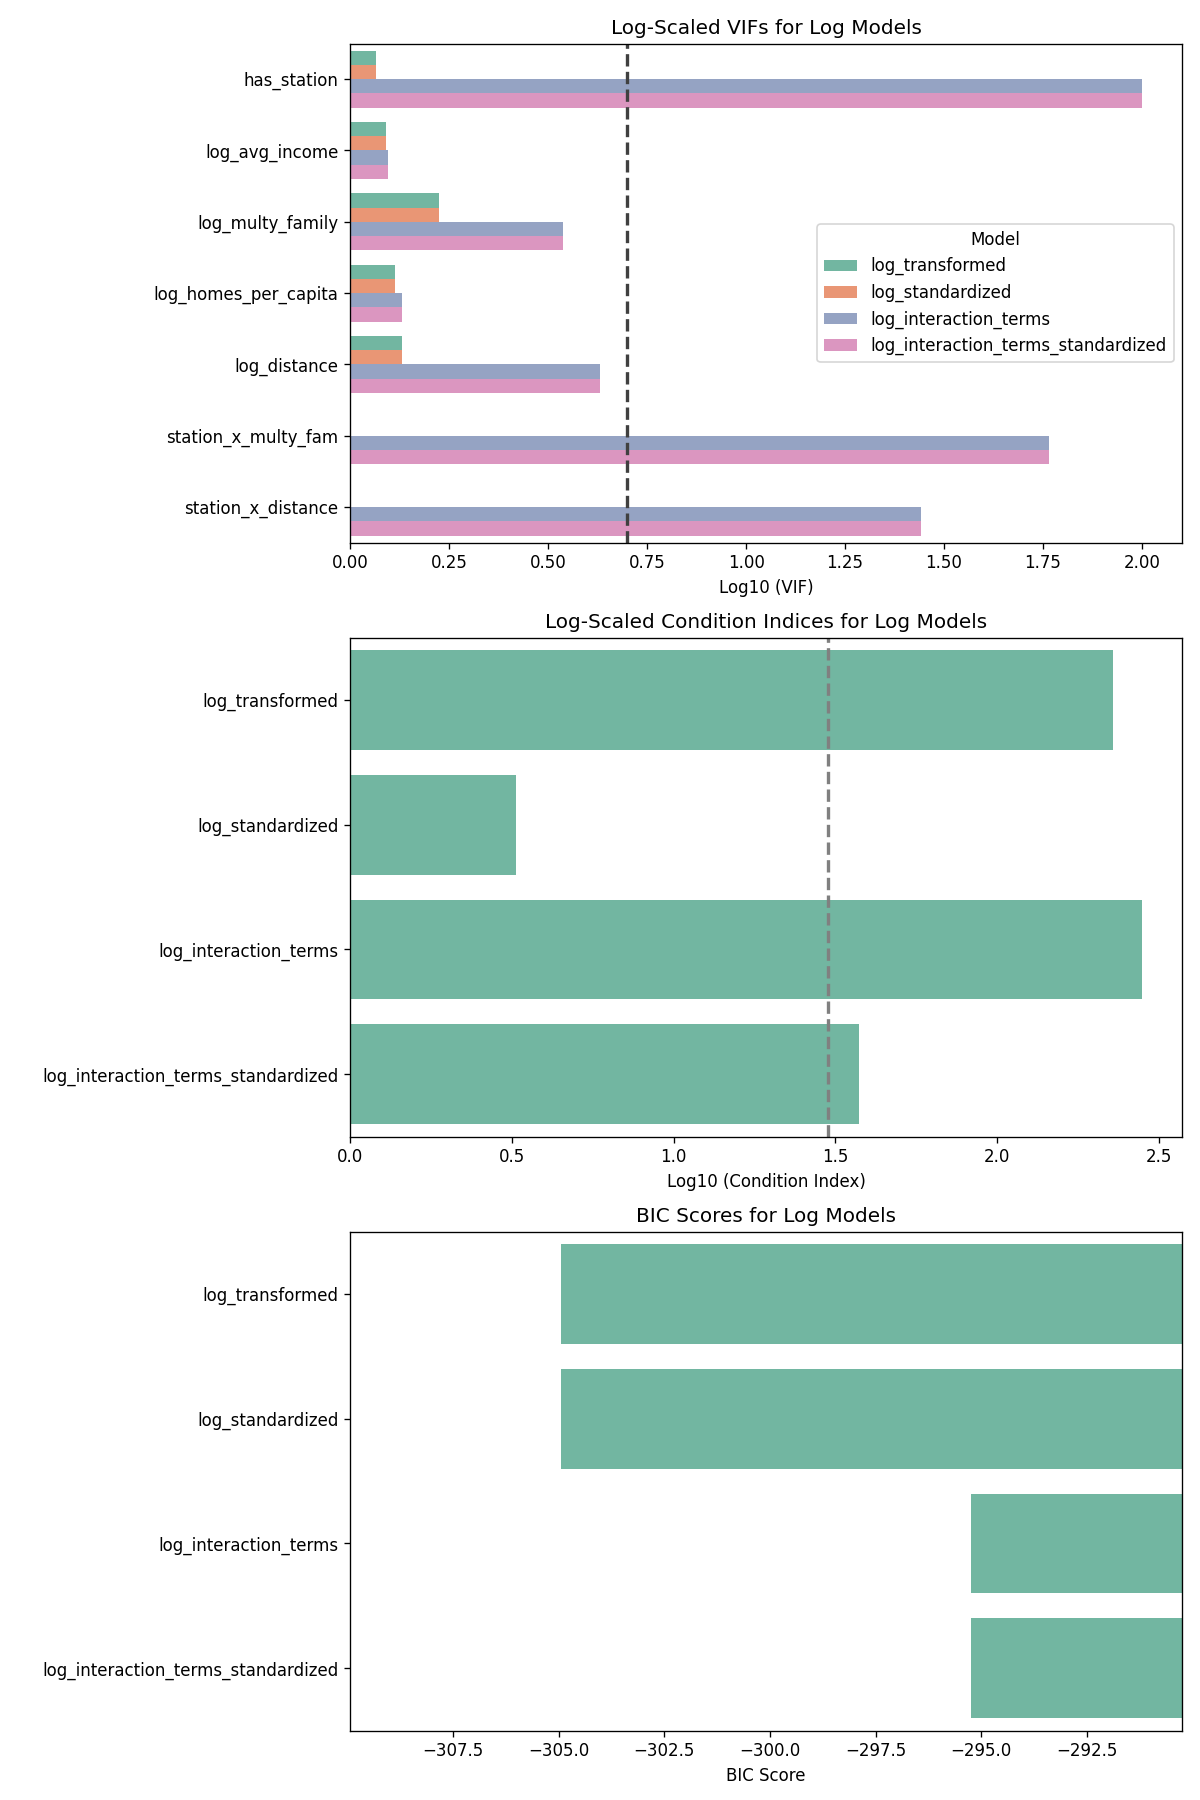
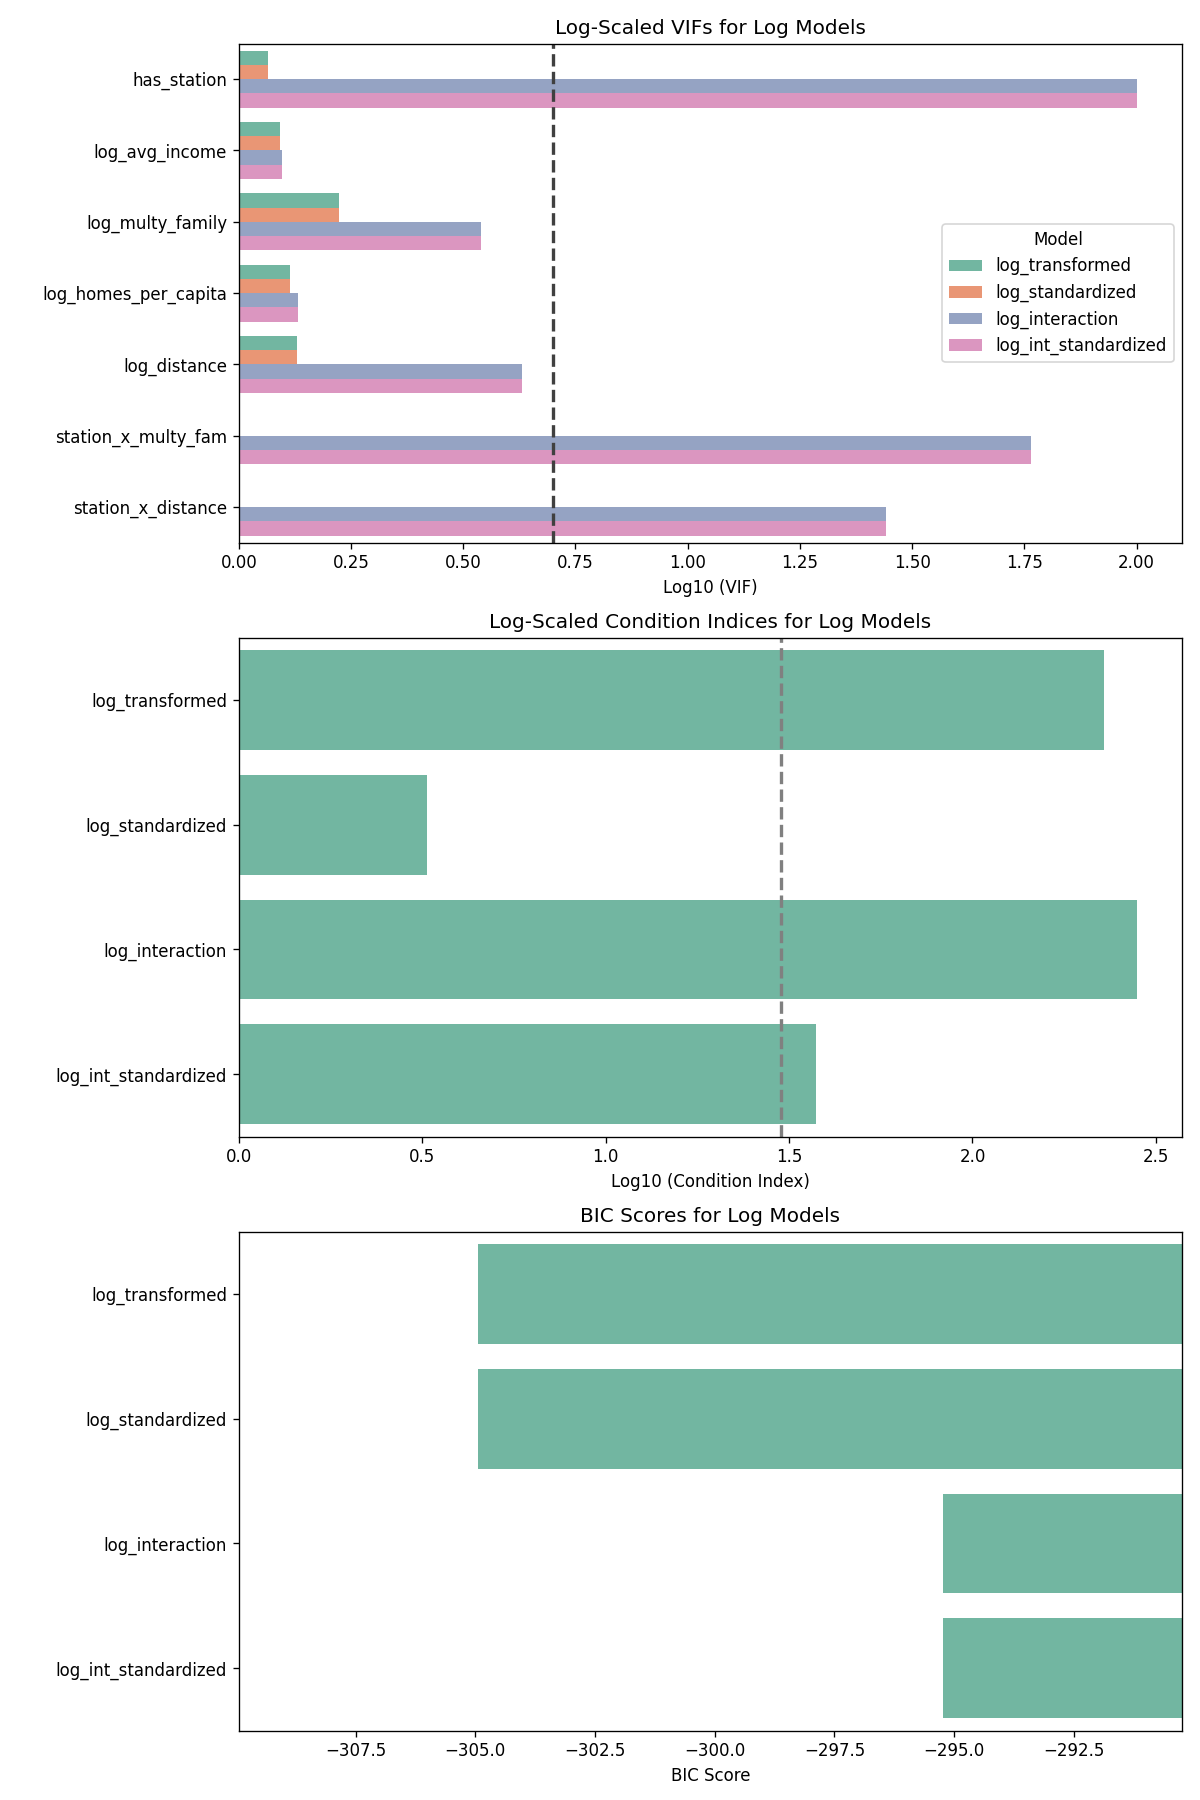
rename models

diff --git a/src/analysis/phase_1/models.py b/src/analysis/phase_1/models.py
@@ -142,7 +142,7 @@ def log_standardized(df: pd.DataFrame) -> None:
     
     return model, vif, cond_indices, bic
 
-def log_interaction_terms(df: pd.DataFrame) -> None:
+def log_interaction(df: pd.DataFrame) -> None:
     """
     Perform a multiple linear regression with interaction terms.
 
@@ -160,7 +160,7 @@ def log_interaction_terms(df: pd.DataFrame) -> None:
     
     return model, vif, cond_indices, bic
 
-def log_interaction_terms_standardized(df: pd.DataFrame) -> None:
+def log_int_standardized(df: pd.DataFrame) -> None:
     """
     Perform a multiple linear regression with standardized interaction terms.
 
@@ -207,8 +207,8 @@ def create_score_summaries(df: pd.DataFrame) -> tuple[dict, dict]:
         "standardized": standardized,
         "log_transformed": log_transformed,
         "log_standardized": log_standardized,
-        "log_interaction_terms": log_interaction_terms,
-        "log_interaction_terms_standardized": log_interaction_terms_standardized
+        "log_interaction": log_interaction,
+        "log_int_standardized": log_int_standardized
     }
 
     logging.info("Summarizing VIFs, condition indices, and BIC scores for the models...")
@@ -249,11 +249,11 @@ def run_phase_1_regressions(df: pd.DataFrame) -> None:
 
     controls_log_model, _, _, _ = log_transformed(df)
     controls_log_standardized_model, _, _, _= log_standardized(df)
-    interaction_terms_model, _, _, _= log_interaction_terms(df)
-    interaction_terms_standardized_model, _, _, _ = log_interaction_terms_standardized(df)
+    interaction_model, _, _, _= log_interaction(df)
+    int_standardized_model, _, _, _ = log_int_standardized(df)
 
     logging.info("Creating summaries for Phase 1 log models...")
-    create_reg_summaries(controls_log_model, controls_log_standardized_model, interaction_terms_model, interaction_terms_standardized_model, output_file=os.path.join(output_path, 'regression_summaries_log.tex'))
+    create_reg_summaries(controls_log_model, controls_log_standardized_model, interaction_model, int_standardized_model, output_file=os.path.join(output_path, 'regression_summaries_log.tex'))
 
     logging.info("Phase 1 regressions complete.")
 
